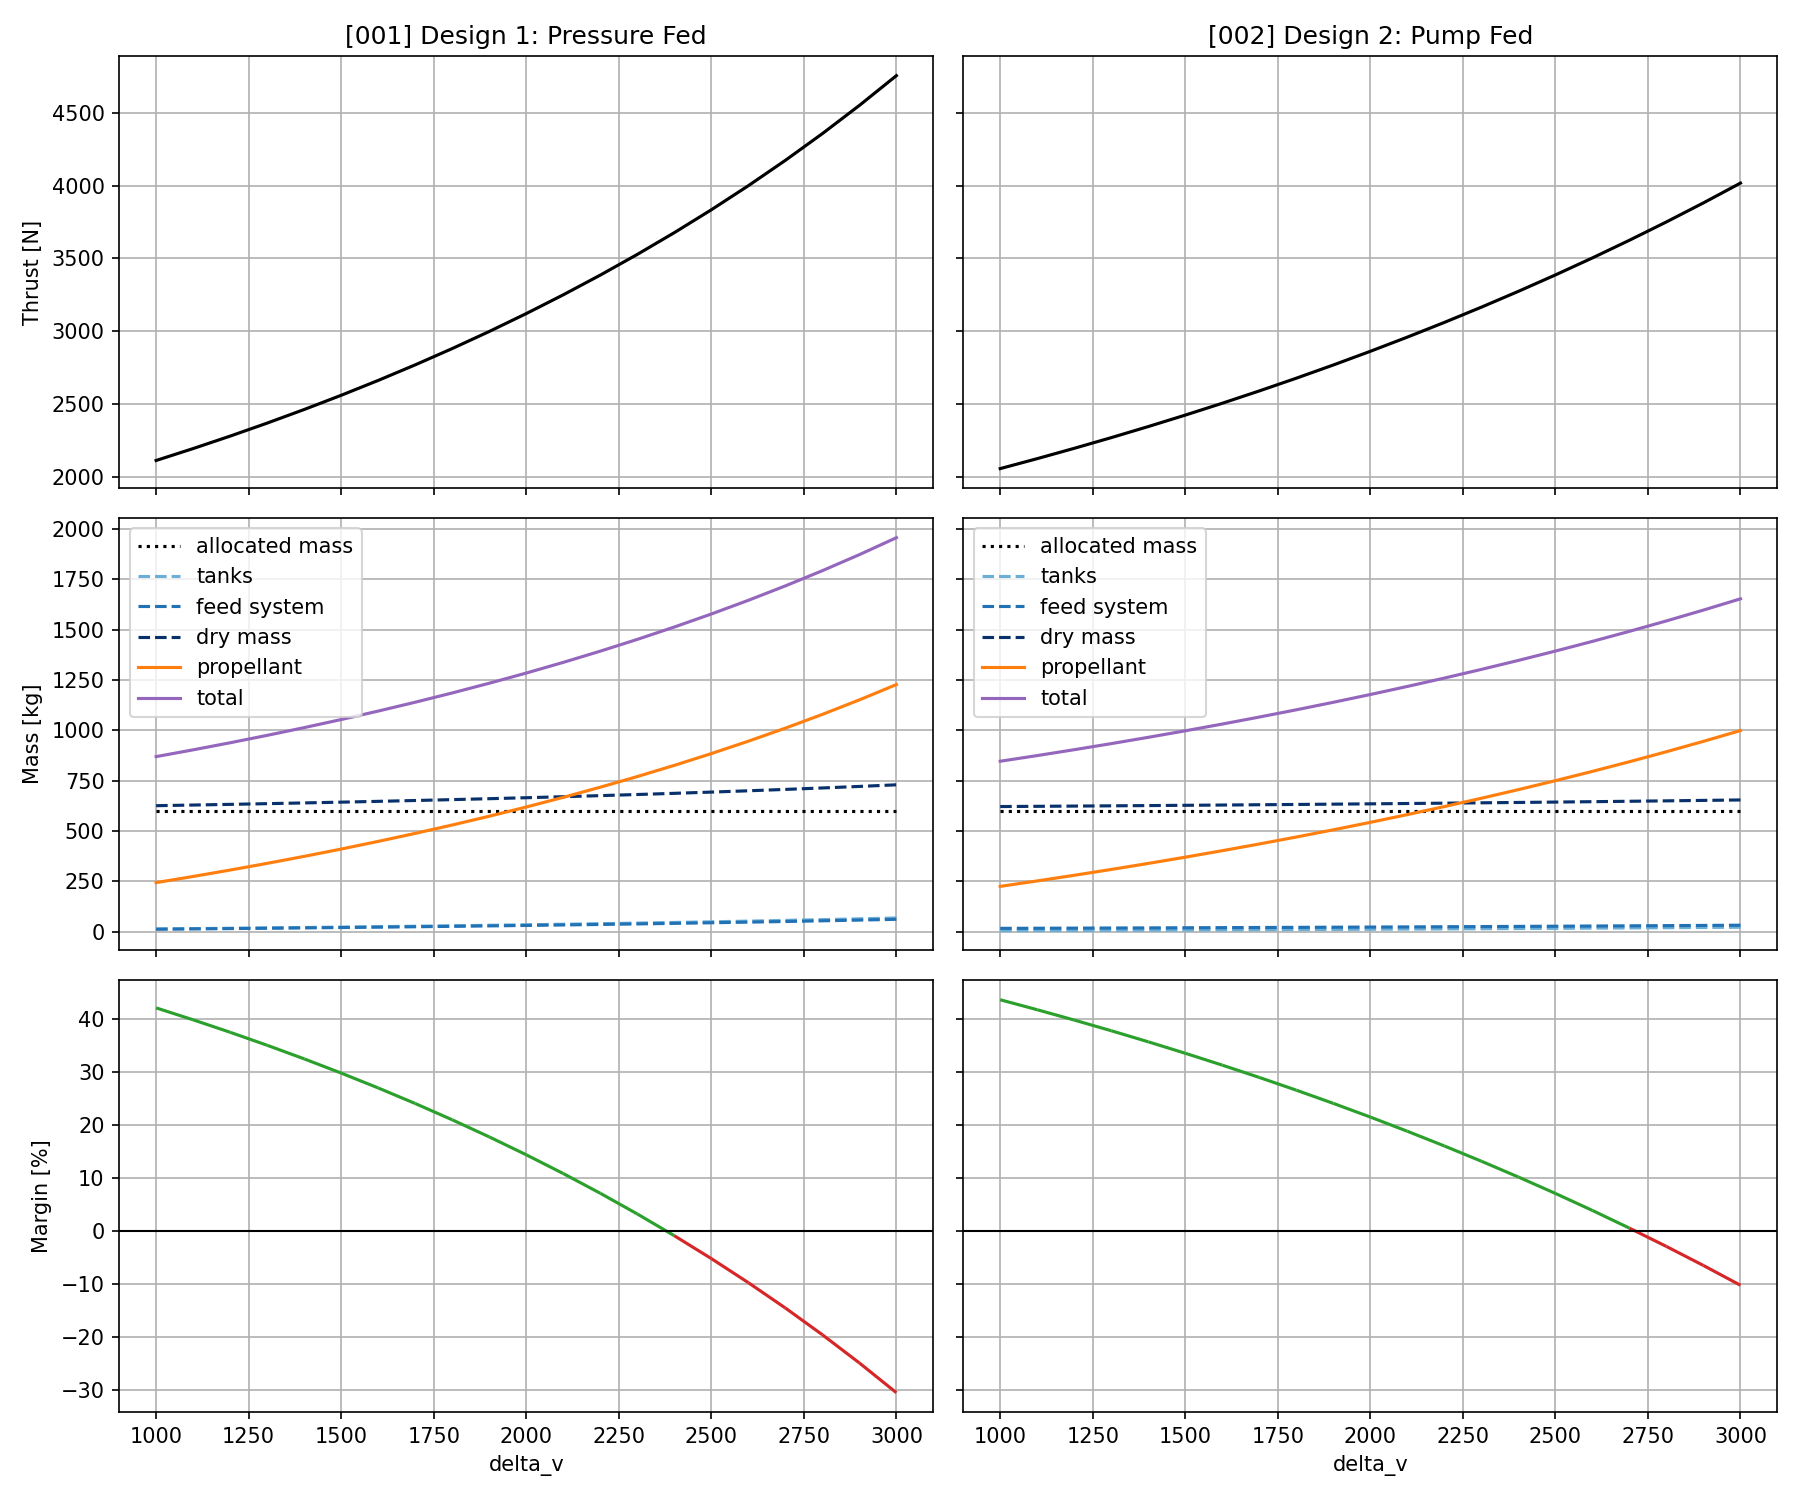
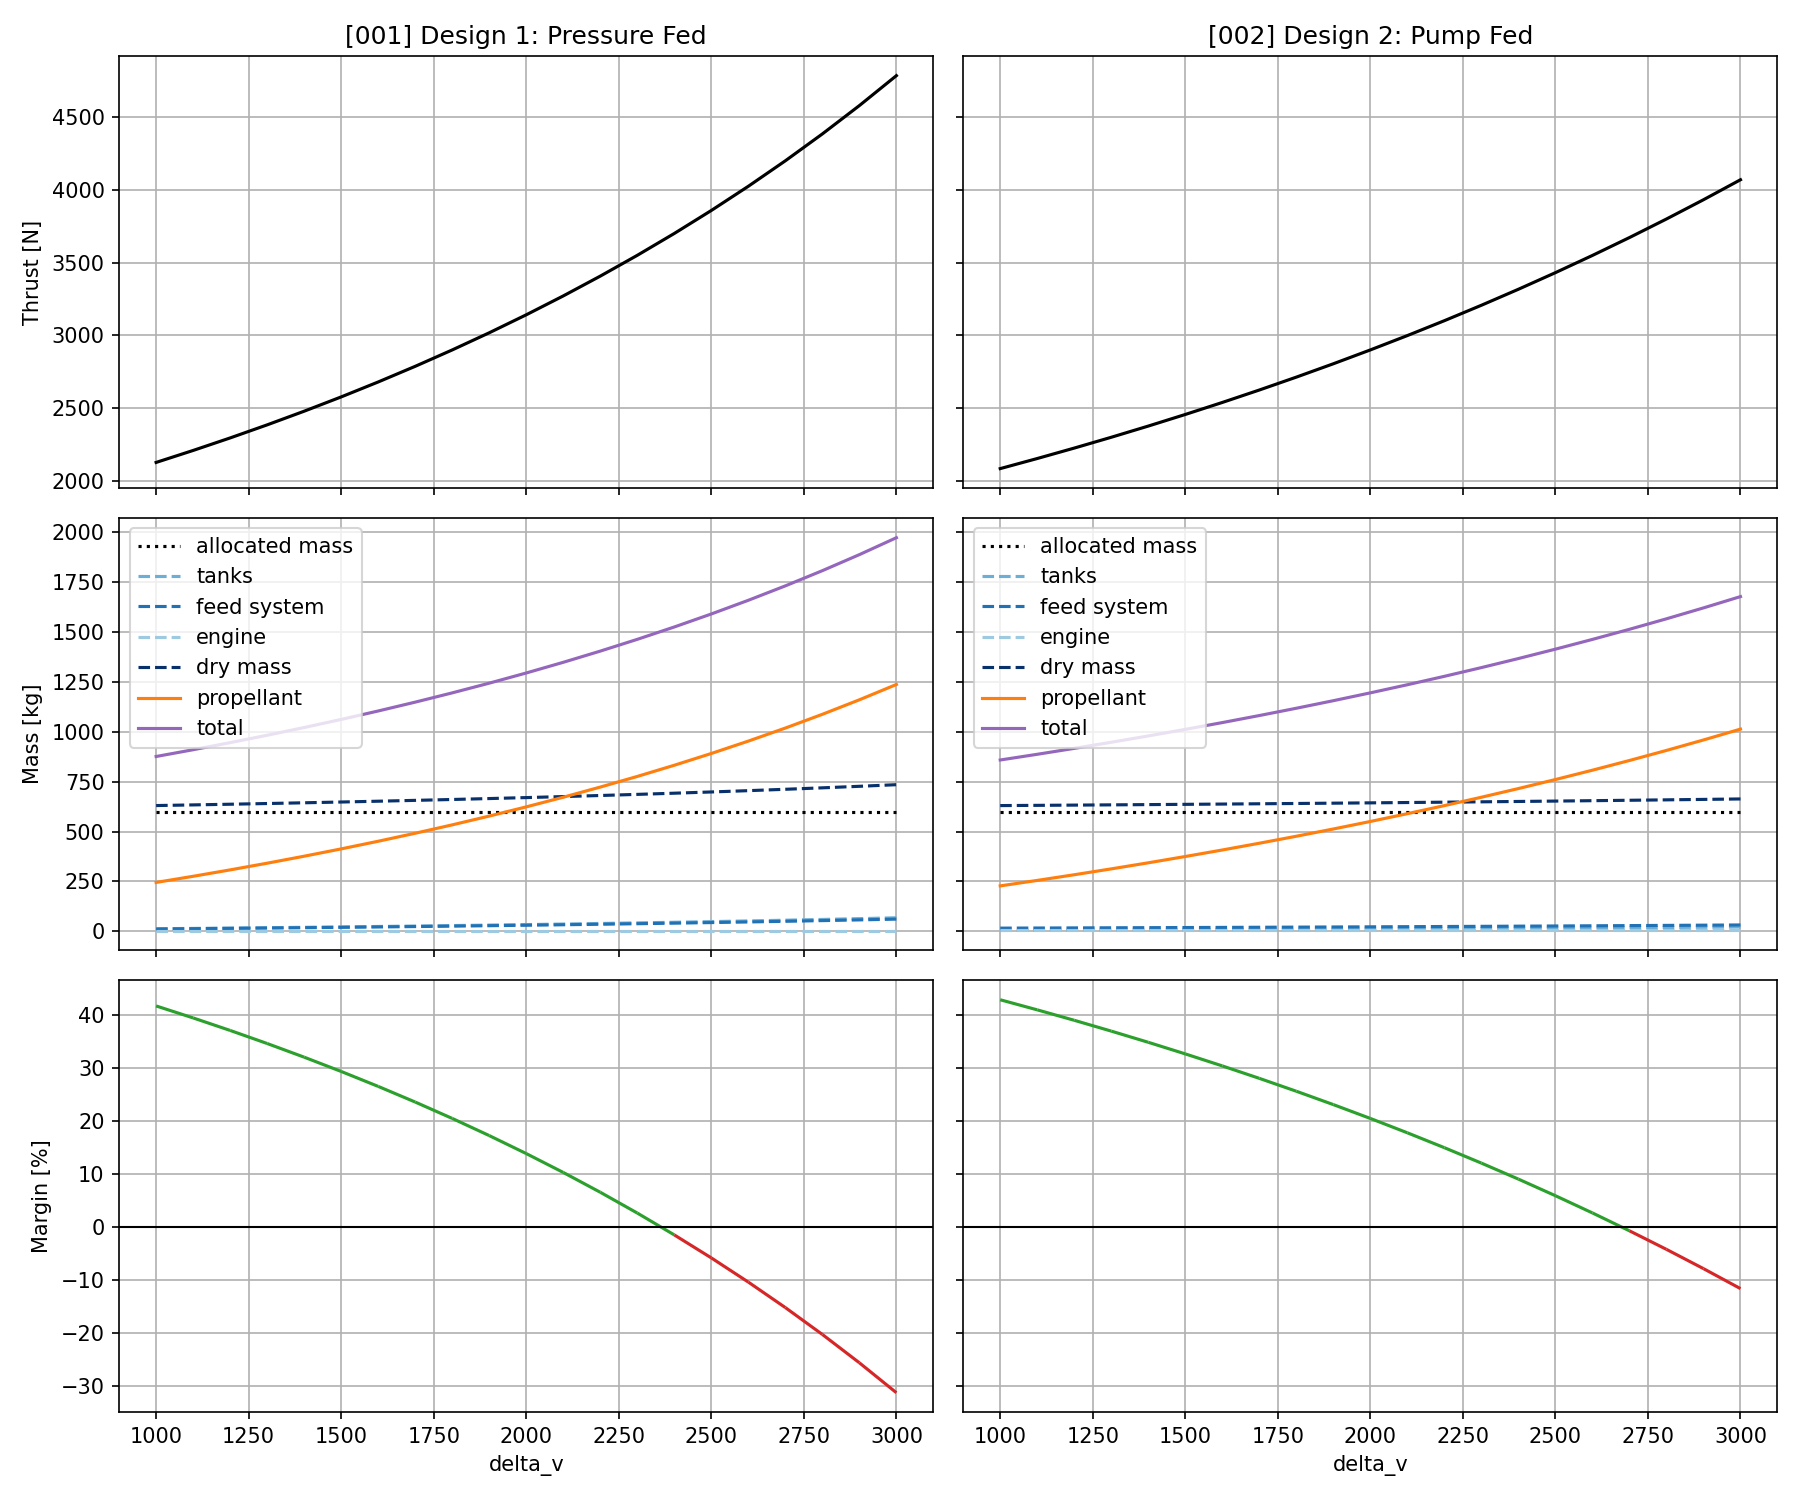
updated report

diff --git a/src/studies/common.py b/src/studies/common.py
@@ -34,12 +34,19 @@ def report_specification(specification: Specification) -> str:
 def report(module: dict, result: SizingResult) -> str:
     """Format a result for the command line, the name and id are only cosmetic."""
     mass = result.mass
+    system = result.system
+    tanks = sum(tank.mass for tank in system.propellant_tanks)
+    feed_systems = sum(feed.mass for feed in system.feed_systems)
+    engines = sum(engine.mass for engine in system.engines)
     return (
         f"[{module['id']}] {module['name']}\n"
-        f"  propellant mass         {mass.propellant_mass:9.2f} kg\n"
-        f"  propulsion system mass  {result.system.mass:9.2f} kg\n"
-        f"  dry mass                {mass.hardware_mass:9.2f} kg\n"
-        f"  total mass              {mass.total_mass:9.2f} kg\n"
-        f"  thrust                  {result.thrust:9.1f} N\n"
-        f"  margin                  {result.margin:9.1%}\n"
+        f"  propellant mass             {mass.propellant_mass:9.2f} kg\n"
+        f"  propulsion system mass      {system.mass:9.2f} kg\n"
+        f"    tank mass                 {tanks:9.2f} kg\n"
+        f"    feed system mass          {feed_systems:9.2f} kg\n"
+        f"    engine mass               {engines:9.2f} kg\n"
+        f"  dry mass                    {mass.hardware_mass:9.2f} kg\n"
+        f"  total mass                  {mass.total_mass:9.2f} kg\n"
+        f"  thrust                      {result.thrust:9.1f} N\n"
+        f"  margin                      {result.margin:9.1%}\n"
     )

diff --git a/src/propulsion_module/models/components/engine.py b/src/propulsion_module/models/components/engine.py
@@ -2,7 +2,7 @@
 
 from __future__ import annotations
 
-from dataclasses import dataclass
+from dataclasses import dataclass, replace
 
 from typing_extensions import Self
 
@@ -11,17 +11,19 @@ from src.utils.units import to_si_quantity
 
 @dataclass(frozen=True)
 class Engine:
-    """Rocket engine.
+    """Rocket engine, with mass scaling linearly with inlet pressure.
 
     Attributes:
         isp: Specific impulse [s].
         inlet_pressure: Engine inlet pressure [Pa].
+        mass_factor: Engine mass per unit inlet pressure [kg/Pa].
         mass: Engine mass, None until sized [kg].
 
     """
 
     isp: float
     inlet_pressure: float
+    mass_factor: float
     mass: float | None = None
 
     @classmethod
@@ -29,7 +31,7 @@ class Engine:
         """Build the engine from its config section.
 
         Args:
-            config: Engine section with isp and inlet_pressure.
+            config: Engine section with isp, inlet_pressure and mass_factor.
 
         Returns:
             The engine.
@@ -38,4 +40,14 @@ class Engine:
         return cls(
             isp=config["isp"],
             inlet_pressure=to_si_quantity(config["inlet_pressure"]),
+            mass_factor=to_si_quantity(config["mass_factor"]),
         )
+
+    def size(self) -> Self:
+        """Size the engine mass, m = k p.
+
+        Returns:
+            The engine with its mass set.
+
+        """
+        return replace(self, mass=self.mass_factor * self.inlet_pressure)

diff --git a/tests/propulsion_module/sizing/test_sizing.py b/tests/propulsion_module/sizing/test_sizing.py
@@ -21,6 +21,7 @@ MAXIMUM_MASS: Final[int] = 1500  # kg
 PRESSURE_FED_TANK_PRESSURE: Final[list[float | str]] = [25, "bar"]
 PRESSURE_FED_ISP: Final[int] = 310  # s
 PRESSURE_FED_INLET_PRESSURE: Final[list[float | str]] = [20, "bar"]
+ENGINE_MASS_FACTOR: Final[list[float | str]] = [0.2, "kg/bar"]
 PRESSURANT_MASS_FACTOR: Final[list[float | str]] = [0.002, "1/bar"]
 
 # Pump fed design
@@ -74,6 +75,7 @@ def test_size_pressure_fed_meets_the_specification() -> None:
                 "engine": {
                     "isp": PRESSURE_FED_ISP,
                     "inlet_pressure": PRESSURE_FED_INLET_PRESSURE,
+                    "mass_factor": ENGINE_MASS_FACTOR,
                 },
                 "pressurant": {
                     "mass_factor": PRESSURANT_MASS_FACTOR,
@@ -107,6 +109,7 @@ def test_size_pump_fed_meets_the_specification() -> None:
                 "engine": {
                     "isp": PUMP_FED_ISP,
                     "inlet_pressure": PUMP_FED_INLET_PRESSURE,
+                    "mass_factor": ENGINE_MASS_FACTOR,
                 },
                 "pump": {
                     "mass_factor": PUMP_MASS_FACTOR,

diff --git a/src/studies/plots.py b/src/studies/plots.py
@@ -16,6 +16,7 @@ MASS_STYLES: Final[dict[str, tuple[str, str]]] = {
     "allocated mass": ("black", ":"),
     "tanks": ("#6baed6", "--"),
     "feed system": ("#2171b5", "--"),
+    "engine": ("#9ecae1", "--"),
     "dry mass": ("#08306b", "--"),
     "propellant": ("tab:orange", "-"),
     "total": ("tab:purple", "-"),
@@ -53,6 +54,7 @@ def plot_sweep(
             "allocated mass": [r.mass.hardware_mass - r.system.mass for r in sized],
             "tanks": [sum(t.mass for t in r.system.propellant_tanks) for r in sized],
             "feed system": [sum(f.mass for f in r.system.feed_systems) for r in sized],
+            "engine": [sum(e.mass for e in r.system.engines) for r in sized],
             "dry mass": [r.mass.hardware_mass for r in sized],
             "propellant": [r.mass.propellant_mass for r in sized],
             "total": [r.mass.total_mass for r in sized],

diff --git a/src/utils/units.py b/src/utils/units.py
@@ -72,6 +72,15 @@ MASS_PER_FORCE_UNITS: Final[MappingProxyType[str, float]] = MappingProxyType(
     },
 )
 
+MASS_PER_PRESSURE_UNITS: Final[MappingProxyType[str, float]] = MappingProxyType(
+    {
+        "kg/Pa": 1.0,
+        "kg/kPa": 1e-3,
+        "kg/MPa": 1e-6,
+        "kg/bar": 1e-5,
+    },
+)
+
 SI_FACTORS: Final[MappingProxyType[str, float]] = MappingProxyType(
     {
         **PRESSURE_UNITS,
@@ -82,6 +91,7 @@ SI_FACTORS: Final[MappingProxyType[str, float]] = MappingProxyType(
         **DENSITY_UNITS,
         **INVERSE_PRESSURE_UNITS,
         **MASS_PER_FORCE_UNITS,
+        **MASS_PER_PRESSURE_UNITS,
     },
 )
 

diff --git a/tests/propulsion_module/models/components/test_engine.py b/tests/propulsion_module/models/components/test_engine.py
@@ -6,7 +6,10 @@ from tests.constants import RELATIVE_TOLERANCE
 
 @pytest.mark.unit
 def test_from_config() -> None:
-    """Engine section converts pressure to SI."""
-    engine = Engine.from_config({"isp": 310, "inlet_pressure": [20, "bar"]})
+    """Engine section converts pressure and mass factor to SI."""
+    engine = Engine.from_config(
+        {"isp": 310, "inlet_pressure": [20, "bar"], "mass_factor": [0.2, "kg/bar"]},
+    )
     assert engine.isp == 310
     assert engine.inlet_pressure == pytest.approx(2e6, rel=RELATIVE_TOLERANCE)
+    assert engine.mass_factor == pytest.approx(2e-6, rel=RELATIVE_TOLERANCE)

diff --git a/tests/propulsion_module/models/architectures/test_pressure_fed.py b/tests/propulsion_module/models/architectures/test_pressure_fed.py
@@ -10,7 +10,11 @@ CONFIG = {
             "material": "Aluminium",
             "pressure": [25, "bar"],
         },
-        "engine": {"isp": 310, "inlet_pressure": [20, "bar"]},
+        "engine": {
+            "isp": 310,
+            "inlet_pressure": [20, "bar"],
+            "mass_factor": [0.2, "kg/bar"],
+        },
         "pressurant": {"mass_factor": [0.002, "1/bar"]},
     },
 }

diff --git a/tests/propulsion_module/models/architectures/test_pump_fed.py b/tests/propulsion_module/models/architectures/test_pump_fed.py
@@ -10,7 +10,11 @@ CONFIG = {
             "material": "Aluminium",
             "pressure": [10, "bar"],
         },
-        "engine": {"isp": 330, "inlet_pressure": [40, "bar"]},
+        "engine": {
+            "isp": 330,
+            "inlet_pressure": [40, "bar"],
+            "mass_factor": [0.2, "kg/bar"],
+        },
         "pump": {"mass_factor": [0.008, "kg/N"]},
     },
 }

diff --git a/src/propulsion_module/models/architectures/pressure_fed.py b/src/propulsion_module/models/architectures/pressure_fed.py
@@ -57,5 +57,6 @@ class PressureFedSystem(PropulsionSystem):
         return replace(
             self,
             propellant_tanks=self._size_tanks(prop_mass),
+            engines=[engine.size() for engine in self.engines],
             feed_systems=[feed.size(pressure, prop_mass) for feed in self.feed_systems],
         )

diff --git a/src/propulsion_module/models/architectures/pump_fed.py b/src/propulsion_module/models/architectures/pump_fed.py
@@ -55,5 +55,6 @@ class PumpFedSystem(PropulsionSystem):
         return replace(
             self,
             propellant_tanks=self._size_tanks(prop_mass),
+            engines=[engine.size() for engine in self.engines],
             feed_systems=[feed.size(thrust) for feed in self.feed_systems],
         )

diff --git a/docs/report.md b/docs/report.md
@@ -1,0 +1,79 @@
+# Result Summary
+
+## Problem Statement
+Size a lunar descent propulsion system two ways, pressure-fed and pump-fed, and compare propellant mass and margin. Then sweep one parameter (not Isp) to show its sensitivity.
+
+**Specifations**
+- Delta-V: 2,000 m/s
+- Dry mass, excluding propulsion: 600 kg
+- Maximum initial mass: 1,500 kg
+- Thrust-to-weight at ignition: >= 1.5
+- Propellant density: 1,000 kg/m3, single fluid
+- Tank mass: proportional to tank pressure and propellant mass
+
+**Case 1: Pressure-fed**
+- Tank pressure: 25 bar
+- Engine inlet pressure: 20 bar
+- Isp: 310 s
+- Pressurant mass: 0.002 /bar x tank pressure x propellant mass
+
+**Case 2: Pump-fed**
+- Tank pressure: 10 bar
+- Engine inlet pressure: 40 bar
+- Isp: 330 s
+- Pump mass: 0.008 kg/N x thrust
+
+> **NOTE** Assumption: engine mass is 0.2 kg/bar x engine inlet pressure, it was not provided.
+
+**Outputs**
+- Required propellant mass for each case
+- Margin against the requirement for each case
+- Sensitivity of both cases to one chosen parameter
+
+## Comparison Results Results
+
+**Inputs:**
+| Requirement | Value |
+|---|---:|
+| Delta-V [m/s] | 2000.0 |
+| Thrust-to-weight [-] | 1.50 |
+| Dry mass [kg] | 600.0 |
+| Maximum mass [kg] | 1500.0 |
+
+Config File: [pressure_vs_pump.json](../src/configs/comparative_study/pressure_vs_pump.json)
+```
+python3 -m src.main compare pressure_vs_pump
+```
+
+**Outputs:**
+
+| | Case 1: Pressure-fed | Case 2: Pump-fed |
+|---|---:|---:|
+| Propellant mass [kg] | 623.28 | 550.21 |
+| Propulsion system mass [kg] | 69.70 | 43.35 |
+| &nbsp;&nbsp;Tank mass [kg] | 34.53 | 12.14 |
+| &nbsp;&nbsp;Feed system mass [kg] | 31.16 | 23.20 |
+| &nbsp;&nbsp;Engine mass [kg] | 4.00 | 8.00 |
+| Dry mass [kg] | 669.70 | 643.35 |
+| Total mass [kg] | 1292.98 | 1193.56 |
+| Thrust [N] | 3141.9 | 2900.3 |
+| Margin [%] | 13.8 | 20.4 |
+
+## Sensitivity Analysis
+
+**Inputs:**
+| Requirement | Value |
+|---|---:|
+| Delta-V [m/s] | 2000.0 |
+| Thrust-to-weight [-] | 1.50 |
+| Dry mass [kg] | 600.0 |
+| Maximum mass [kg] | 1500.0 |
+
+Config File: [sweep_config.json](../src/configs/sensitivity_study/sweep_config.json)
+```
+python3 -m src.main sweep sweep_config
+```
+
+**Outputs:**
+
+![Sensitivity study results](sensitivity_study_results.png)

diff --git a/docs/tutorial.md b/docs/tutorial.md
@@ -23,6 +23,8 @@ Size a lunar descent propulsion system two ways, pressure-fed and pump-fed, and 
 - Isp: 330 s
 - Pump mass: 0.008 kg/N x thrust
 
+> **NOTE** Assumption: engine mass is 0.2 kg/bar x engine inlet pressure, it was not provided.
+
 **Outputs**
 - Required propellant mass for each case
 - Margin against the requirement for each case
@@ -38,17 +40,24 @@ Size a lunar descent propulsion system two ways, pressure-fed and pump-fed, and 
 | Dry mass [kg] | 600.0 |
 | Maximum mass [kg] | 1500.0 |
 
+Config File: [pressure_vs_pump.json](../src/configs/comparative_study/pressure_vs_pump.json)
+```
+python3 -m src.main compare pressure_vs_pump
+```
 
 **Outputs:**
 
 | | Case 1: Pressure-fed | Case 2: Pump-fed |
 |---|---:|---:|
-| Propellant mass [kg] | 619.16 | 542.97 |
-| Propulsion system mass [kg] | 65.26 | 34.88 |
-| Dry mass [kg] | 665.26 | 634.88 |
-| Total mass [kg] | 1284.42 | 1177.85 |
-| Thrust [N] | 3121.1 | 2862.2 |
-| Margin [%] | 14.4 | 21.5 |
+| Propellant mass [kg] | 623.28 | 550.21 |
+| Propulsion system mass [kg] | 69.70 | 43.35 |
+| &nbsp;&nbsp;Tank mass [kg] | 34.53 | 12.14 |
+| &nbsp;&nbsp;Feed system mass [kg] | 31.16 | 23.20 |
+| &nbsp;&nbsp;Engine mass [kg] | 4.00 | 8.00 |
+| Dry mass [kg] | 669.70 | 643.35 |
+| Total mass [kg] | 1292.98 | 1193.56 |
+| Thrust [N] | 3141.9 | 2900.3 |
+| Margin [%] | 13.8 | 20.4 |
 
 ## Sensitivity Analysis
 
@@ -59,6 +68,11 @@ Size a lunar descent propulsion system two ways, pressure-fed and pump-fed, and 
 | Thrust-to-weight [-] | 1.50 |
 | Dry mass [kg] | 600.0 |
 | Maximum mass [kg] | 1500.0 |
+
+Config File: [sweep_config.json](../src/configs/sensitivity_study/sweep_config.json)
+```
+python3 -m src.main sweep sweep_config
+```
 
 **Outputs:**
 
